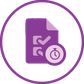
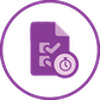
vault backup: 2023-05-18 12:22:10

diff --git a/HR Timesheet.md b/HR Timesheet.md
@@ -21,11 +21,11 @@ Website: <https://www.odoo.com/de_DE/app/timesheet>
 
 ## Erweiterungen
 
-| Erweiterung                                                      | Beschreibung                                |
-| ---------------------------------------------------------------- | ------------------------------------------- |
-| [HR Timesheet From Until](HR%20Timesheet%20From%20Until.md)      | Berechnung Dauer anhand Start- und Endzeit. |
-| [HR Timesheet Multiline Name](HR%20Timesheet%20Multiline%20Name) | Mehrzeilige Beschreibung in Zeiterfassung.  |
-| [Task Timer Advance](Sh%20Task%20Time%20Adv.md)                | Aufgaben-Timer einfacher starten und beenden.                                            |
+| Erweiterung                                                      | Beschreibung                                  |
+| ---------------------------------------------------------------- | --------------------------------------------- |
+| [HR Timesheet From Until](HR%20Timesheet%20From%20Until.md)      | Berechnung Dauer anhand Start- und Endzeit.   |
+| [HR Timesheet Multiline Name](HR%20Timesheet%20Multiline%20Name) | Mehrzeilige Beschreibung in Zeiterfassung.    |
+| [Task Timer Advance](Sh%20Task%20Time%20Adv.md)                  | Aufgaben-Timer einfacher starten und beenden. |
 
 ## Konfiguration
 

diff --git a/Sh Task Time Adv.md b/Sh Task Time Adv.md
@@ -7,7 +7,7 @@ tags:
 prev: ./hr-timesheet
 ---
 # {{ $frontmatter.title }}
-![](assets/icons_odoo_printnode_base.png)
+![odoo_icon_sh_task_time_adv](assets/odoo_icon_sh_task_time_adv.png)
 
 {{ $frontmatter.description }}
 
